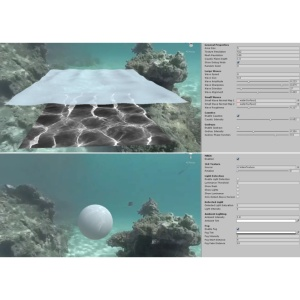
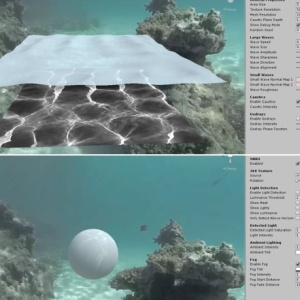
thumbnail updates

diff --git a/generate_thumbnails.py b/generate_thumbnails.py
@@ -33,8 +33,8 @@ cases = {
 			'chalmers2020reconstructing':(1,((0.08,0.8),(0.12,0.12))),
 			'chalmers2020illumination':(0,((0.3,0.05),(0.28,0.9))),
 			'thompson2019real':(0,((0.18,0.6),(0.2,0.2))),
-			'thompson2019underwater':(1,((0.05,0.05),(0.3,0.45))),
-			'thompson2019real-caustics':(0,((0.2,0.54),(0.27,0.4))),
+			'thompson2019underwater':(1,((0.07,0.13),(0.27,0.27))),
+			'thompson2019real-caustics':(0,((0.25,0.7),(0.2,0.2))),
 			'chalmers2018illumination':(32,((0.43,0.2),(0.52,0.52))),
 			'petikam2021art':(0,((0.26,0.11),(0.25,0.25))),
 			'welsford2021spectator':(0,((0.34,0.2),(0.25,0.25))),
@@ -42,7 +42,7 @@ cases = {
 			'rhee2020augmented':(2,((0.08,0.12),(0.25,0.25))),
 			'chalmers2020shadow':(2,((0.33,0.08),(0.1,0.1))),
 			'chalmers2020illumination':(3,((0.38,0.14),(0.17,0.17))),
-			'petikam2018visual':(6,((0.05,0.15),(0.12,0.12))),
+			'petikam2018visual':(6,((0.07,0.16),(0.1,0.1))),
 			'rhee2018mixed':(0,((0.3,0.15),(0.27,0.27))),
 			'rhee2018mr360':(0,((0.3,0.73),(0.14,0.14))),
 			'dean2018magic':(3,((0.65,0.12),(0.18,0.18))),
